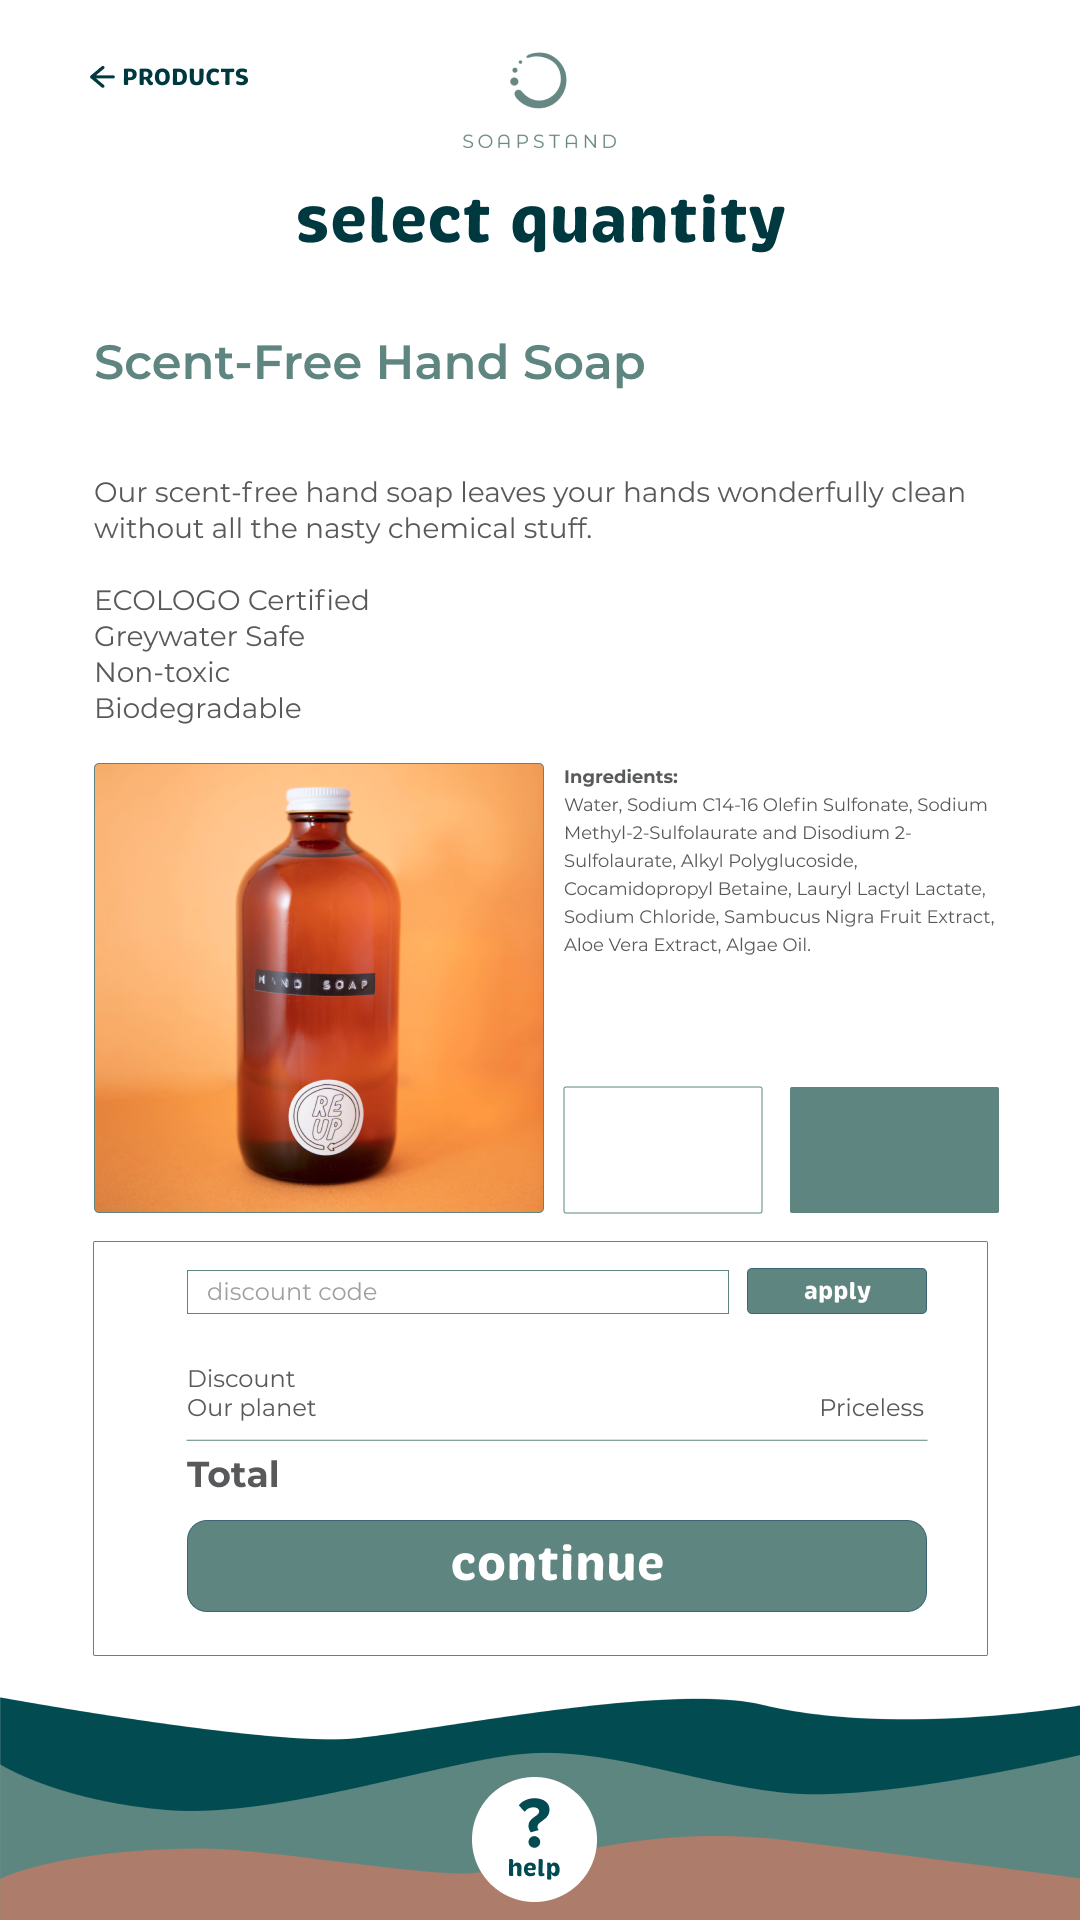
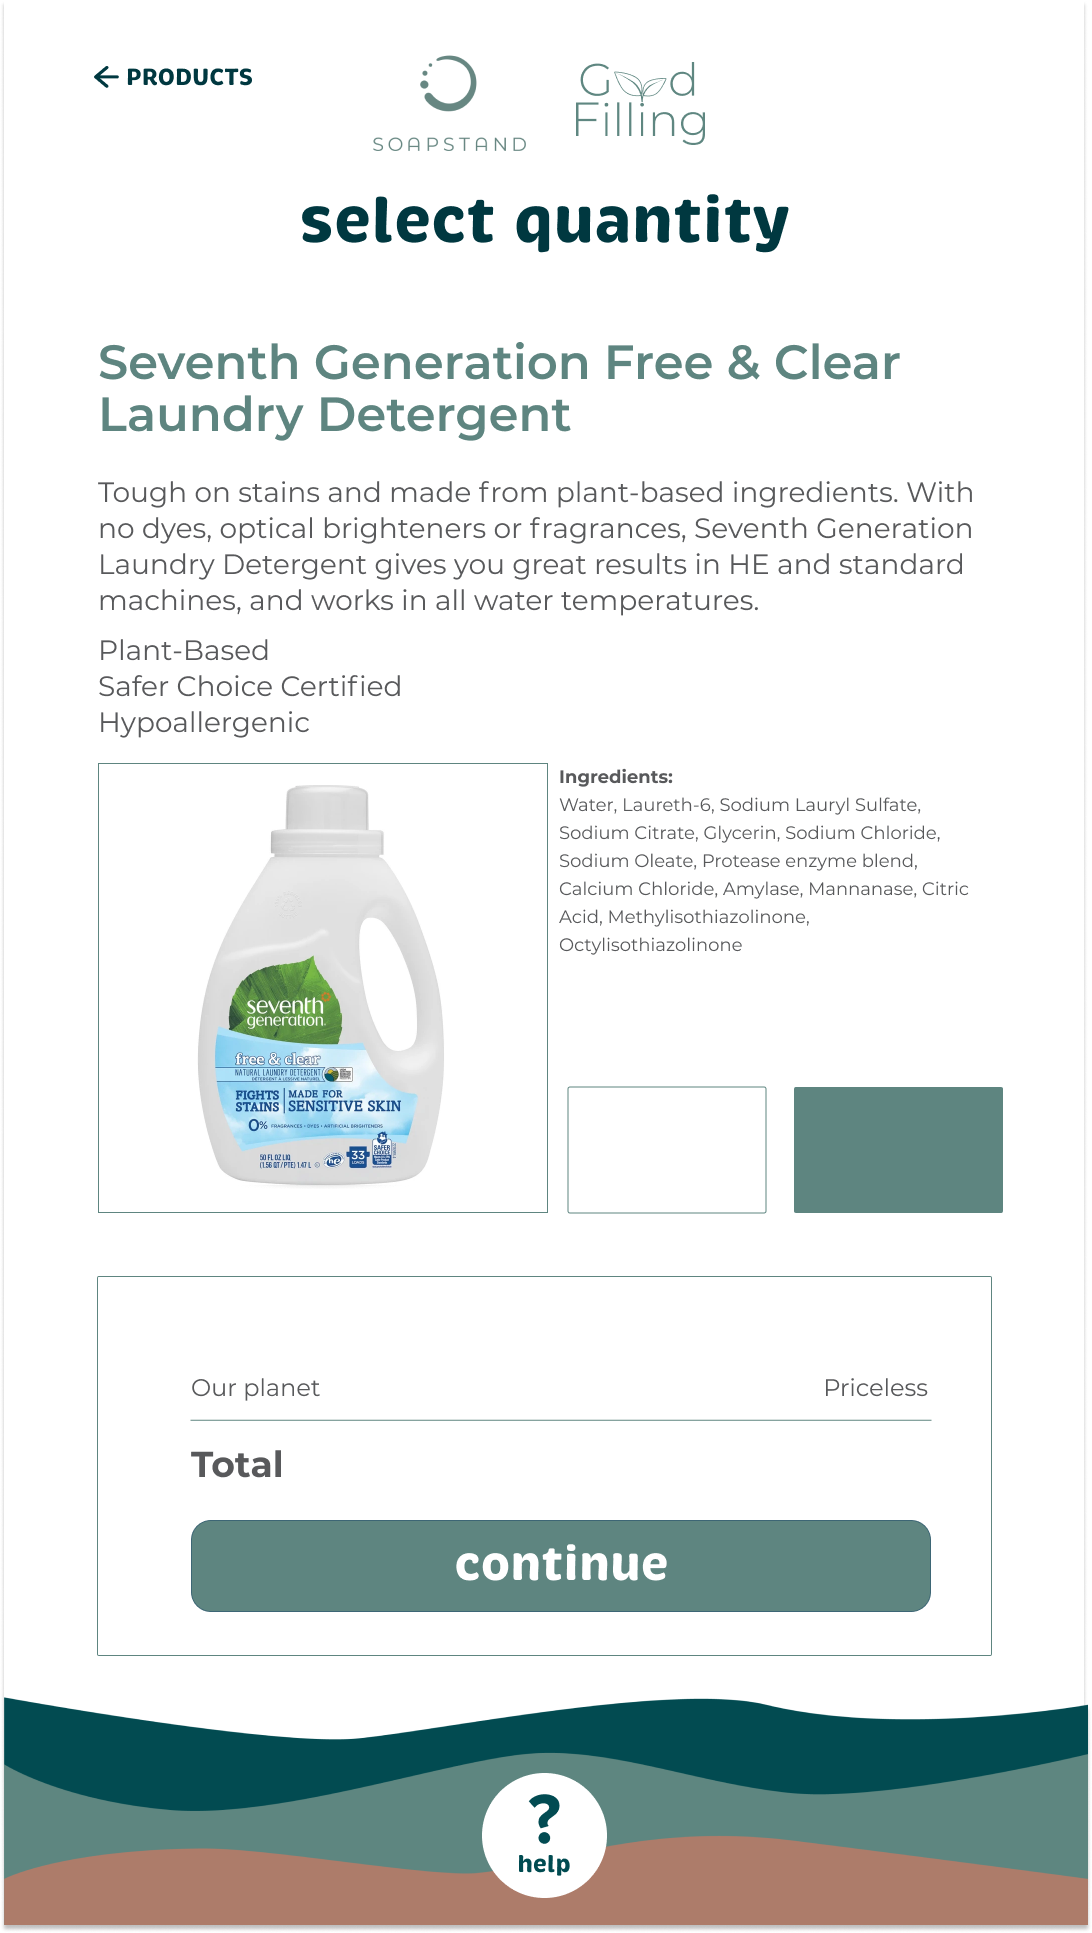
Stations without coupon code

diff --git a/ui/payselect.cpp b/ui/payselect.cpp
@@ -74,6 +74,13 @@ paySelect::paySelect(QWidget *parent) :
     ui->promoKeyboard->hide();
     ui->promoInputButton->show();
 
+    /*Stations without coupon code */
+    ui->promoCode->hide();
+    ui->promoKeyboard->hide();
+    ui->promoInputButton->hide();
+    ui->discountLabel->hide();
+    ui->promoButton->hide();
+    ui->discountPriceLabel->hide();
 
     {
         selectIdleTimer = new QTimer(this);
@@ -97,6 +104,16 @@ void paySelect::setPage(productPage_1 *pageSelect, dispensePage* pageDispense,wi
     this->helpPage = pageHelp;
     this->wifiError = pageWifiError;
     ui->promoCode->clear();
+    ui->discountLabel->setText("-$0.0");
+    /*
+    Stations without Promo Code
+    */
+    ui->promoCode->hide();
+    ui->promoKeyboard->hide();
+    ui->promoInputButton->hide();
+    ui->discountLabel->hide();
+    ui->promoButton->hide();
+    ui->discountPriceLabel->hide();
     usleep(100);
 }
 
@@ -120,9 +137,16 @@ void paySelect::on_previousPage_Button_clicked()
     };
     selectIdleTimer->stop();
     firstProductPage->showFullScreen();
+    ui->discountLabel->setText("-$0.0");
     ui->promoInputButton->show();
+    ui->promoCode->hide();
+    ui->promoKeyboard->hide();
+    ui->promoInputButton->hide();
+    ui->discountLabel->hide();
+    ui->promoButton->hide();
+    ui->discountPriceLabel->hide();
 
-//    usleep(100);
+    usleep(100);
     this->hide();
 
 }
@@ -209,7 +233,7 @@ void paySelect::resizeEvent(QResizeEvent *event){
     ui->totalPriceLabel->setText("$"+QString::number(idlePage->userDrinkOrder->getPrice()));
     ui->price_sLabel->setText("$"+QString::number(db.getProductPrice(checkOption, 's'), 'f', 2));
     ui->price_lLabel->setText("$"+QString::number(db.getProductPrice(checkOption, 'l'), 'f', 2));
-
+    ui->discountLabel->setText("-$0.0");
     if (db.getProductVolume(checkOption, 's') < 1000){
         ui->volume_sLabel->setText(QString::number(db.getProductVolume(checkOption, 's')) + " " + db.getUnits(checkOption));
     }else{
@@ -235,7 +259,7 @@ void paySelect::resizeEvent(QResizeEvent *event){
 
 //    qDebug() << "Start paySelect Timers" << endl;
     selectIdleTimer->start(1000);
-    _selectIdleTimeoutSec = 40;
+    _selectIdleTimeoutSec = 400;
 
     db.closeDB();
 }
@@ -430,13 +454,9 @@ size_t WriteCallback_coupon(char* contents, size_t size, size_t nmemb, void *use
 
 void paySelect::on_promoCodeInput_clicked(){
     QObject* button = QObject::sender();
-    ui->promoInputButton->hide();
+    ui->promoCode->setStyleSheet("font-family: Montserrat; font-style: normal; font-weight: bold; font-size: 36px; line-height: 44px; color: #5E8580;border-color:#5E8580;");
+    // ui->promoInputButton->hide();
     ui->promoKeyboard->show();
-//    qDebug() << "btn clicked -> " << button->objectName();
-    // OPEN ON-SCREEN KEYBOARD FOR PASSWORD ENTRY
-
-    // idlePage>maintenance->promoKeyboard->show();
-    // ui->promoCode->setText("");
 }
 
 void paySelect::updatePriceAfterPromo(double discountPercent){
@@ -467,7 +487,7 @@ void paySelect::on_applyPromo_Button_clicked()
     res = curl_easy_perform(curl);
     curl_easy_getinfo(curl, CURLINFO_RESPONSE_CODE, &http_code);
     if(res!=CURLE_OK){
-    ui->promoCode->setStyleSheet("font-family: Montserrat; font-style: normal; font-weight: bold; font-size: 36px; line-height: 44px; color: #5E8580;border-color:red;");
+    ui->promoCode->setStyleSheet("font-family: Montserrat; font-style: normal; font-weight: bold; font-size: 36px; line-height: 44px; color: #f44336;border-color:#f44336;");
         qDebug()<< "Invalid Coupon" << endl;
     }
     else {
@@ -481,7 +501,7 @@ void paySelect::on_applyPromo_Button_clicked()
         }
         else{
             qDebug()<< "Invalid Coupon" << endl;
-            // ui->promoCode->setStyleSheet("font-family: Montserrat; font-style: normal; font-weight: bold; font-size: 36px; line-height: 44px; color: #5E8580;border-color:red;");
+            ui->promoCode->setStyleSheet("font-family: Montserrat; font-style: normal; font-weight: bold; font-size: 36px; line-height: 44px; color: #f44336;border-color:#f44336;");
 
         }
 
